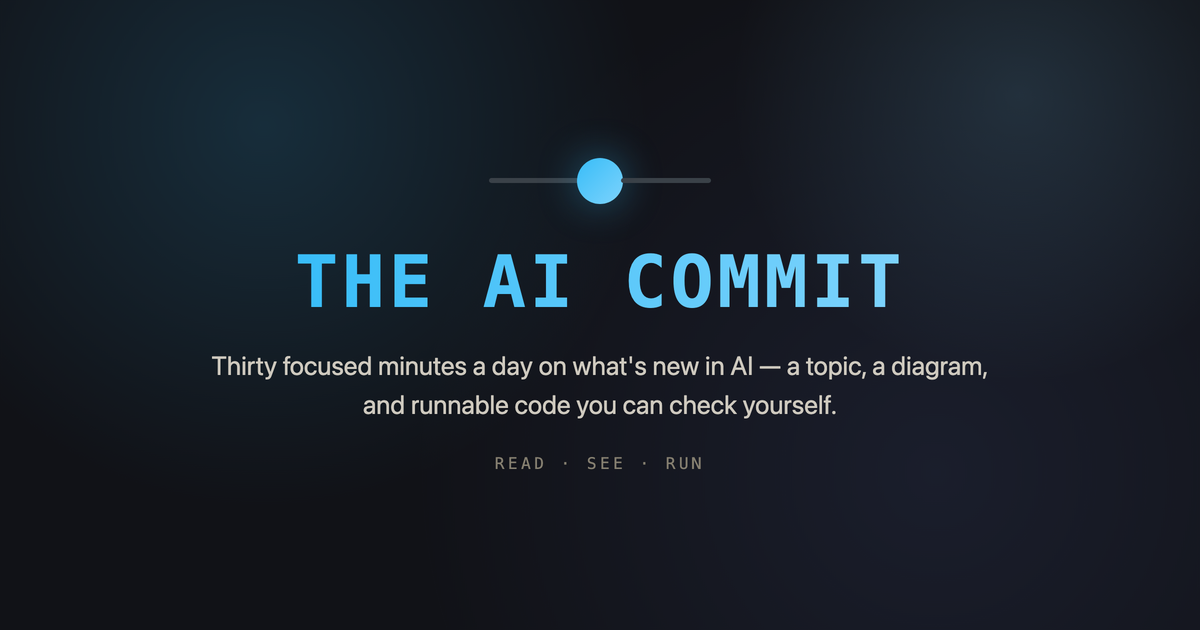
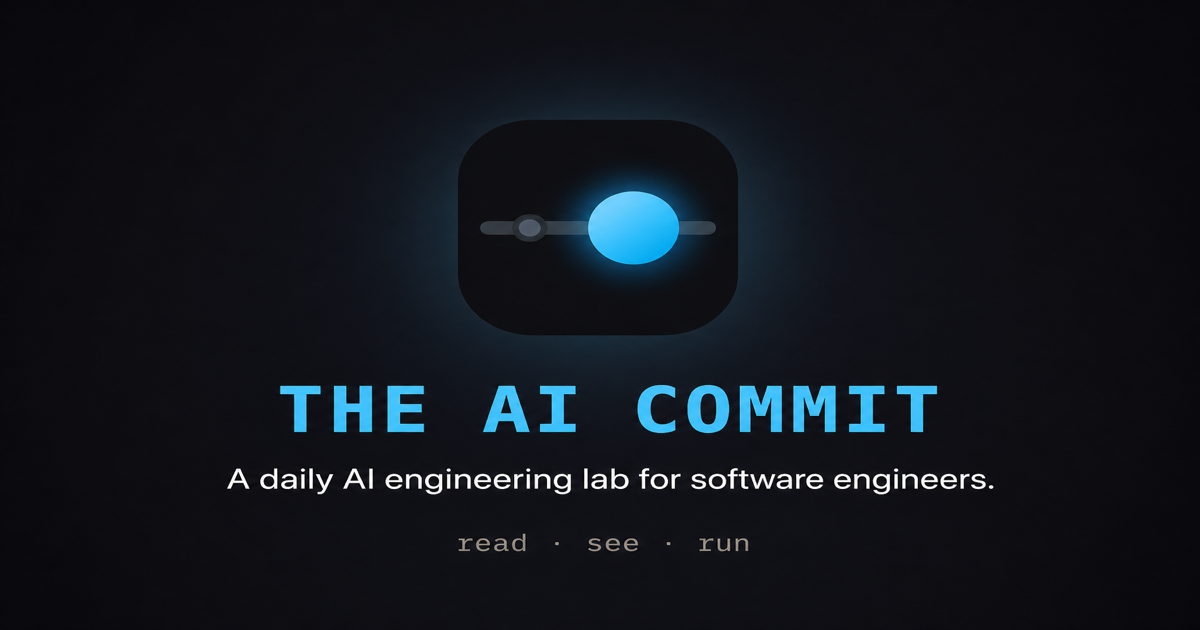
Put the commit-node mark on the site and in the share images.
Favicon, app icons, OG image, and the homepage header now use the same two-node git mark.

diff --git a/index.html b/index.html
@@ -209,6 +209,7 @@
 
   /* Header */
   header.top { text-align: center; padding: 44px 24px 6px; }
+  .brand-mark { display: block; width: 56px; height: 56px; margin: 0 auto 14px; }
   .title {
     font-family: var(--mono); font-weight: 700;
     font-size: clamp(24px, 4.6vw, 44px); letter-spacing: .06em; margin: 0;
@@ -651,6 +652,7 @@
            build.js), leaving it a <p> on session and topic pages where the
            article/topic title is the h1 instead. Both classes set explicit
            margin/font-size, so the tag swap is visually identical. -->
+      <img class="brand-mark" src="/favicon.svg" width="56" height="56" alt="" />
       <p class="title">THE AI COMMIT</p>
       <p class="kicker">read · see · run</p>
       <p class="tagline">A daily AI engineering lab for software engineers</p>
